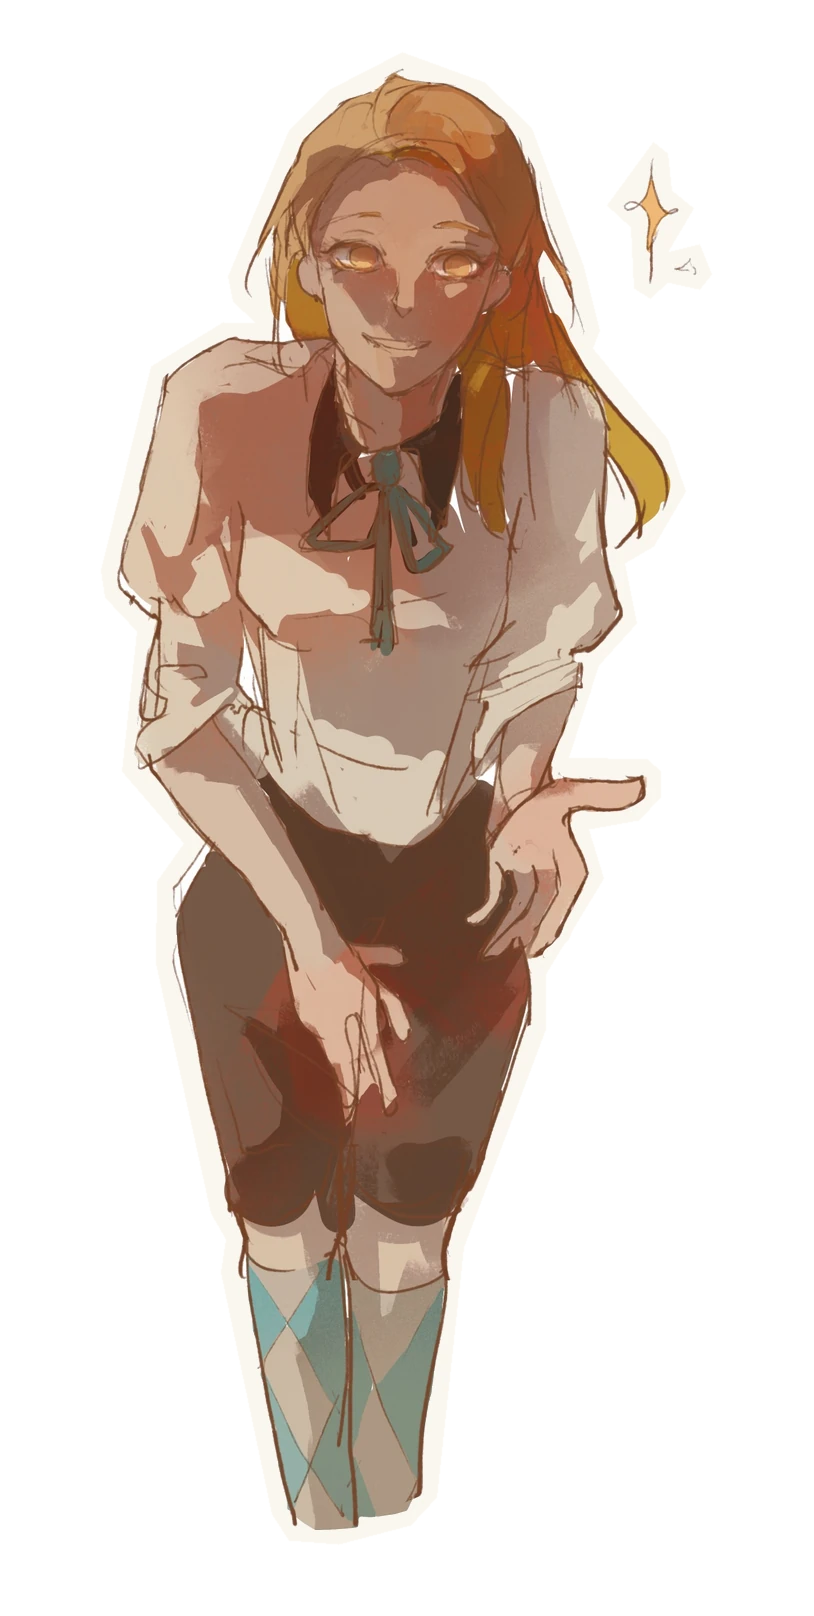
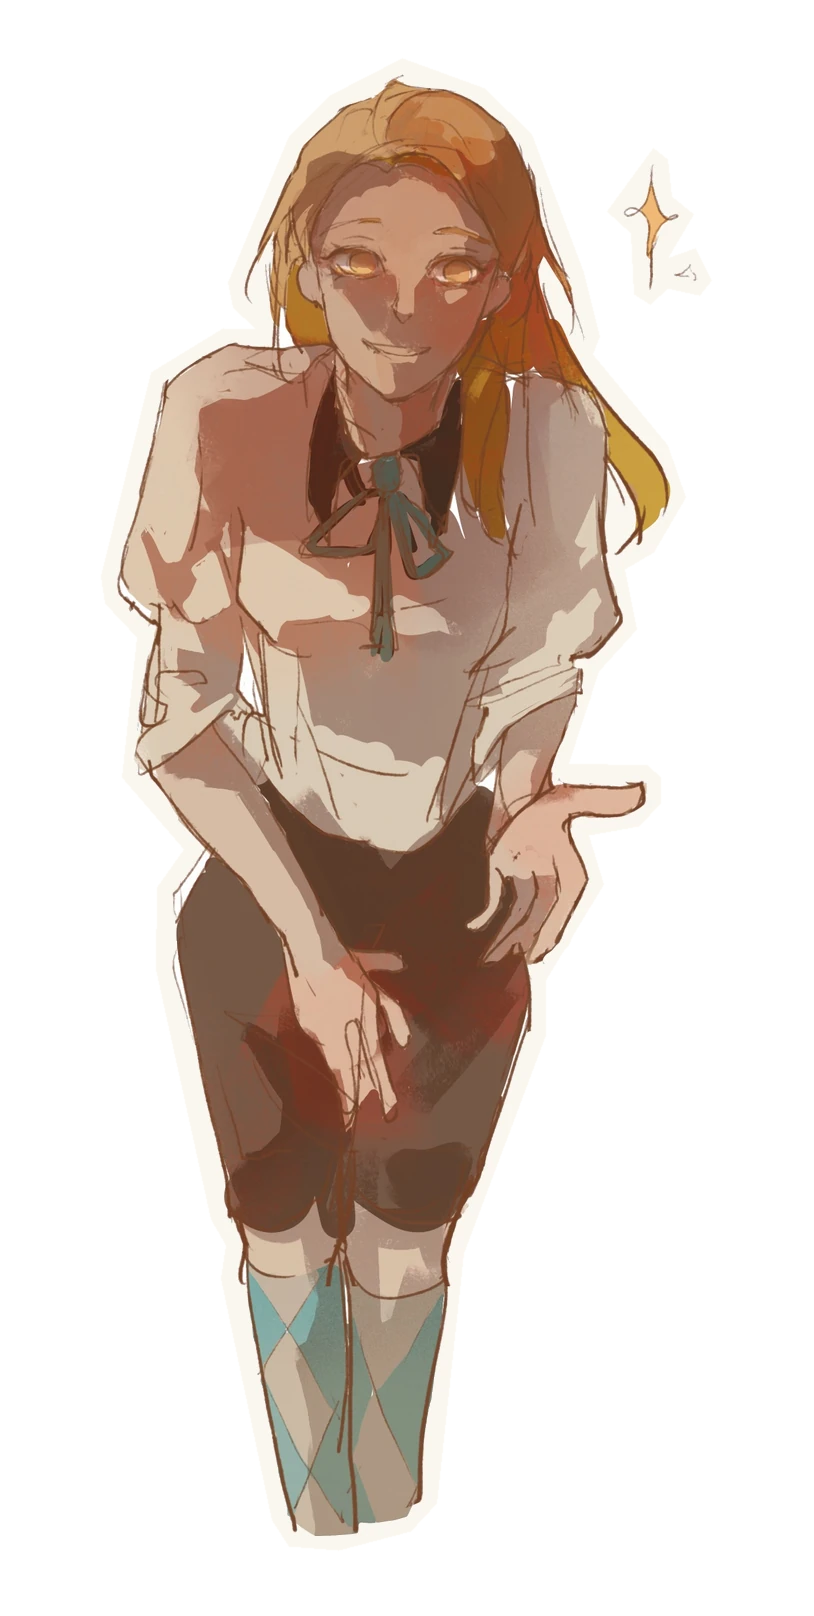
Scale Iris's academy portrait to the standard head and sit her lower
Claude-Session: https://claude.ai/code/session_01LopHKLE1Hy6BZKLVUBMfVV

diff --git a/index.html b/index.html
@@ -835,8 +835,8 @@ const ITEMS = {
   drape:{ owner:"iris", name:"古希腊白布", icon:CLOTH_ICON, wear:"bottom", skin:{ art:"images/iris-drape.webp", mood:"dark", turn:true } },
   apple:{ owner:"iris", name:"苹果", icon:APPLE_SRC, entry:"apple", sticker:true },
   /* outfits swap the standing portrait itself: same scale, same frame */
-  uniform_iris:{ owner:"iris", name:"北方学院制服", icon:UNIFORM_ICON, wear:"top", fig:"images/iris-academy.webp" },
-  uniform_aurelia:{ owner:"aurelia", name:"北方学院制服", icon:UNIFORM_ICON, wear:"top", fig:"images/aurelia-academy.webp" }
+  uniform_iris:{ owner:"iris", name:"北方学院制服", icon:UNIFORM_ICON, wear:"top", fig:"images/iris-academy.webp", size:[886,1616] },
+  uniform_aurelia:{ owner:"aurelia", name:"北方学院制服", icon:UNIFORM_ICON, wear:"top", fig:"images/aurelia-academy.webp", size:[814,1616] }
 };
 const BAG_N=4;
 const INV={ iris:{ bag:["drape","uniform_iris",null,null], worn:{top:null,bottom:null} }, aurelia:{ bag:["uniform_aurelia",null,null,null], worn:{top:null,bottom:null} } };
@@ -870,6 +870,8 @@ function applySkin(){
   /* an outfit: the standing portrait changes, the scene stays as it is */
   const outfit=Object.values(s.worn).map(id=>id && ITEMS[id].fig ? ITEMS[id] : null).find(Boolean);
   const src=outfit ? outfit.fig : PEOPLE[cur].img;
+  const sz=outfit ? outfit.size : PEOPLE[cur].fig;
+  figure.style.setProperty('--ar', `${sz[0]}/${sz[1]}`); figure.style.setProperty('--hs', sz[1]/1616);
   if(art.getAttribute("src")!==src){ art.src=src; art.alt=`${PEOPLE[cur].full}，${outfit?outfit.name:"作者绘"}`;
     figure.querySelectorAll('.lit').forEach(el=>{ el.style.webkitMaskImage=el.style.maskImage=`url(${src})`; }); }
   if(window.HALL && HALL.force) HALL.force(sk ? sk.mood : null);
